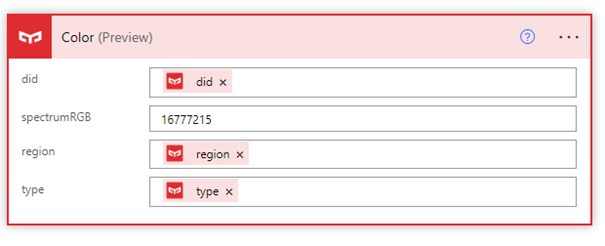
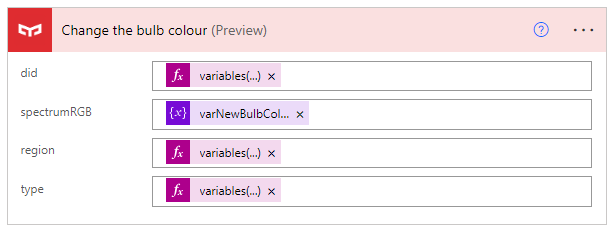
bulb article changes

Changed region(s): [[0.0, 0.0299, 1.0, 0.9274], [0.0298, 0.9573, 0.9818, 0.9872]]

diff --git a/_posts/2023-04-25-Bulb_Presence.md b/_posts/2023-04-25-Bulb_Presence.md
@@ -1,0 +1,170 @@
+---
+layout: post
+title:  "Use a bulb to indicate presence in Microsoft Teams"
+date:   2023-04-17 11:08:54 +0200
+tags: ["Power Automate", "Xiaomi Yeelight", "MS Graph"]
+photo: "/images/bulb/header.png"
+---
+
+Have you ever wondered how easily **Power Automate** can connect to external devices? 
+
+In this article, I share my idea of a system to visually inform about someone's availability status in Teams.
+
+With the global pandemic forcing many of us to work remotely, it became crucial to establish new rules not only in our workplaces but also at home with other household members. We have all seen these popular videos of someone unintentionally interrupting an important meeting at the least convenient moment. This got me thinking if there was a way to display someone's availability to other household members or coworkers who do not have access to the employee's **Microsoft 365** environment.
+
+My investigation started with some existing solutions on the same note: [The Status Cube published by John Klimister](https://www.blueboxes.co.uk/building-a-ms-teams-status-cube-with-the-graph-api-presence-subscriptions), [Hue Bulb example by Scott Hanselman](https://www.hanselman.com/blog/mirroring-your-presence-status-from-the-microsoft-graph-in-teams-to-lifx-or-hue-bias-lighting), [or the automation based on Raspberry Pi by Elio Struyf](https://www.eliostruyf.com/diy-building-busy-light-show-microsoft-teams-presence/). Inspiring as they are, each one presents more complex scenario and demands high-code abilities. My aim was to use the least programming possible so that more people could benefit from the customized setup in their own environment.
+
+### Table of Contents
+- [Presence and subscriptions in MS Graph](#presence-and-subscriptions-in-ms-graph)
+- [Power Automate](#power-automate)
+    - [Trigger](#trigger)
+    - [Main actions](#main-actions)
+  - [The subscription update](#the-subscription-update)
+- [The final effect](#the-final-effect)
+- [Known issues](#known-issues)
+
+## [Presence](https://learn.microsoft.com/en-us/graph/api/resources/presence?view=graph-rest-1.0) and [subscriptions](https://learn.microsoft.com/en-us/graph/api/resources/subscription?view=graph-rest-1.0) in MS Graph
+
+ The information on user availability status is included in general user data and can be captured by MS Graph using a subscription. The subscription resource type is used to receive notifications when such resource is created, updated, or deleted. We will use this functionality to monitor shifts in any Teams user presence and trigger a Power Automate flow each time the status changes.
+ 
+ Here is an example of a subscription request payload for the presence resource type:
+
+```javascript
+{
+    "changeType": "updated",
+    "notificationUrl": "<<FLOW URL>>",
+    "resource": "/communications/presences/<<USER ID>>",
+    "expirationDateTime": "2023-04-12T18:23:45.9356913Z",
+    "clientState": "secretClientValue",
+    "latestSupportedTlsVersion": "v1_2"
+}
+```
+
+*changeType*: The type of change in the subscribed resource that raises a notification. The supported values are created, updated, and deleted.
+
+*notificationUrl*: The URL of the endpoint that receives the notifications. Replace with your API URL (in this case, Power Automate HTTP trigger from point 2 in the Power Automate section).
+
+*resource*: The resource that the subscription monitors for changes. This resource is identified by the resource path.  For a single user, use the endpoint */communications/presences/{id}*, where *{id}* represents the user's ID. Using the Microsoft Graph API, you can also track a list of users with the following endpoint: */communications/presences?$filter=id in ('{id}', '{id}', ...)*.
+
+*expirationDateTime*: The date and time when the subscription expires. Note that the maximum expiration time for the presence endpoint is 60 minutes, so make sure to update your subscription accordingly to ensure the functionality persists. The date and time are in UTC and are represented using ISO 8601 format. For example, midnight UTC on Jan 1, 2024 is represented as 2024-01-01T00:00:00Z.
+
+## Power Automate
+
+Power Automate was a natural choice for a simple yet powerful solution to design an effective workflow triggered by the user's availability change and performing consequent actions to switch the bulb color accordingly. The graph below presents the flow design.
+![Flow](/images/bulb/PresenceDisplayFlow.png)
+
+#### Trigger
+* The flow fires on the HTTP request. Use the HTTP trigger to initialize the subscription request from the **Microsoft Graph API**. 
+  
+* Ultimately, two kinds of requests will initialize the flow. The first one aims at confirming the secret value to the **Microsoft Graph API** by responding with a required value. This step is essential for establishing the authentication and authorization process with the API. The second request involves handling the value of user presence, which allows for capturing and processing the availability status of the user. 
+
+* To start your tests and make sure the subscription request is valid at any point of workflow development, leverage the MS Graph Explorer. 
+![Graph Explorer](/images/bulb/GraphExplorer.png)
+
+#### Main actions
+ * Initialize the object variable used to store the set of values to provide before the first run. It includes the bulb data - you will take the "did", "region" and "type" properties from the test query in the Discover step described below.
+  
+  ![DiscoverAction](../_site/images/bulb/DiscoverOnly.png)
+
+ *did*: This property refers to the unique identifier of the Yeelight Colorful Bulb.
+
+*region*: Your region.
+
+*type*: It refers to the type or model of the Yeelight Colorful Bulb.
+  
+ The "tenantId" value store the identifier number of your tenant. I add the following values to the object variable to indicate the color codes for particular options:
+
+```javascript
+{
+  "redColor": 16711680,
+  "greenColor": 65280,
+  "yellowColor": 16776960,
+  "whiteColor": 16777215,
+}
+```
+
+![InitVariable](../_site/images/bulb/initdata.png)
+
+ * The integer variables come in handy in storing the information on target and current light colors.
+  
+ * Check if the request is a subscription confirmation with the following condition.
+
+![Condition](/images/bulb/IsSubscriptionConfirmationCondition.png)
+
+```javascript
+contains(triggerOutputs(),'queries') is equal to true
+```
+
+If the condition is met, the flow will respond with the required value to the **Microsoft Graph API** ato confirm the subscription. Otherwise, it will proceed to the next steps.
+
+* For this particular project, I incorporated the **Yeelight Colorful Bulb** device, which is an affordable smart bulb controlled remotely within a Wi-Fi connection.
+  To get more information about the device use the Discover and Query actions of the Yeelight service provided by Xiaomi. The output of the query contains the "spectrumRGB" property to be set in a variable within the next action.
+![Discovery action](/images/bulb/DiscoverBulb.png)
+
+To set up the integration, you will need to register an account with Xiaomi and connect the Yeelight Colorful Bulb. Due to security concerns, I use a separate connection established solely for Xiaomi products. Once the bulb is connected to your Xiaomi account, you need to log in to the same account to establish the connection within each Xiaomi-based action in the Power Automate maker view.
+
+ * Check if the value parameter is not empty - in further stages we use the first element from the *value* array. to avoid errors we check if the *value* is not empty.
+
+```javascript
+length(triggerOutputs()?['body']?['value']) is not equal to 0
+```
+
+* Check if the request addresses the current tenant - to secure a process, we validate the secret value coming from the request. In a standard case, we can use a method described in this [blog post](https://elnathsoft.pl/steal-data-with-ms-flow/). As we do not control the request body, instead, we can check if the request is coming from the tenant specified in the tenantId property of the object variable with the bulb data. Otherwise, it will cancel the workflow.
+![Tenant](/images/bulb/TenantIdCheck.png)
+
+```javascript
+triggerOutputs()?['body']?['value'][0]?['tenantId']  is equal to  '<<TENANT ID>>'
+```
+
+* Set the bulb colour based on the identified user activity - the Switch action to override the varNewBulbColor with the user activity indicator:
+
+![switch](../_site/images/bulb/switchStatement.png)
+
+```javascript
+triggerOutputs()?['body']?['value'][0]?['resourceData']?['activity']
+```
+
+Here are the values to be used in the Switch statement:
+
+```javascript
+OffWork - whiteColor
+Offline - whiteColor
+Available - greenColor
+Busy - redColor
+DoNotDisturb - redColor
+BeRightBack - yellowColor
+Away - yellowColor
+```
+
+* Check if the target color is different than the current one - the condition checks if the current color of the bulb is different from the target color. If the condition is false, the flow will terminate.
+
+* To change the color of the bulb using Power Automate, populating the following properties in all the final Color action is essential:
+
+![Color action](/images/bulb/ColorBulb.png)
+
+
+### The subscription update
+
+We treat the process described above in terms of the Proof of Concept. To keep your subscription valid, every 60 minutes another flow must be triggered to perform the same request as in MS Graph Explorer, thereby updating the subscription.
+
+![Subscription Update Flow](/images/bulb/SubscriptionUpdate.png)
+
+The process of creating a Custom Connector for MS Graph is described [here](https://medium.com/rapha%C3%ABl-pothin/create-a-custom-connector-for-microsoft-graph-581676585529).
+
+
+## The final effect
+The bulb changes its color based on the user's availability status. When the user is offline or not working, it functions as a regular bulb. When the user is available, the bulb turns green. When the user is busy or away, the bulb turns red. When the user is away, the bulb turns yellow.
+![Effect](/images/bulb/effect.png)
+
+
+## Known issues
+
+   * For unidentified reasons, the subscription tends to trigger the flow multiple times. I have tried some workarounds, but so far none of them has been successful. If anyone has any ideas, please let me know.
+
+![TooManyRequests](/images/bulb/TooManyRequests.png)
+
+
+   * Changing the color of the bulb returns the following error. However, the color is changed properly and no other issues are observed.
+   
+![Error](/images/bulb/ChangeColorError.png)
+
